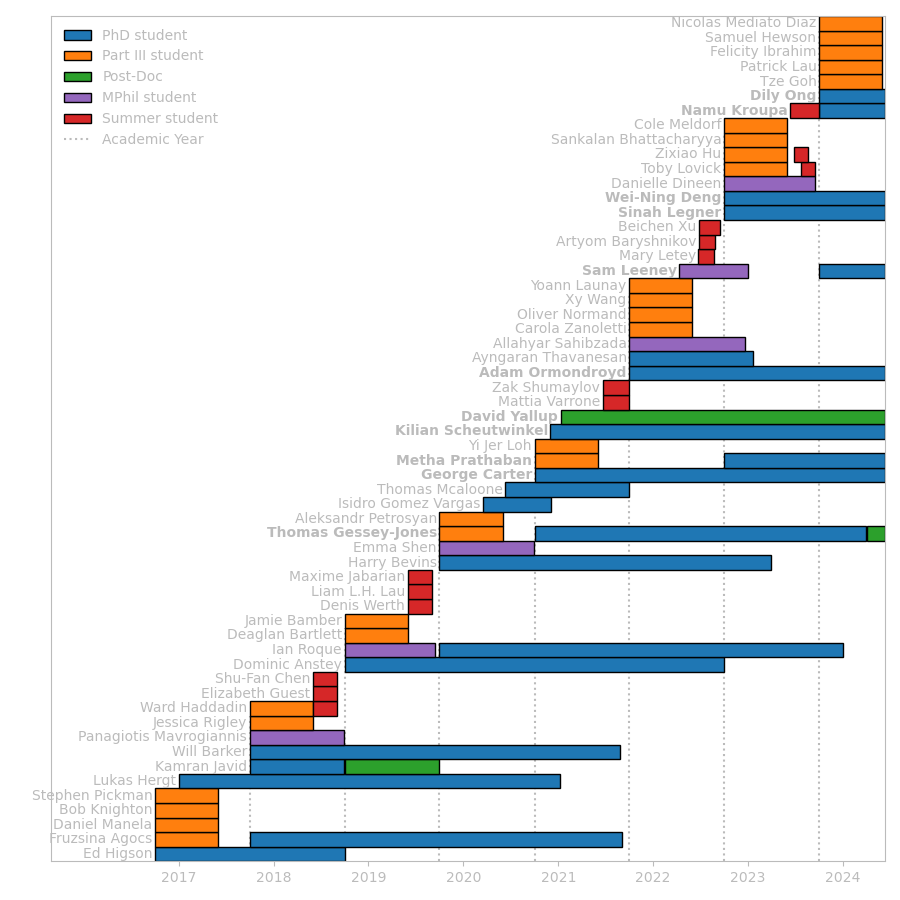
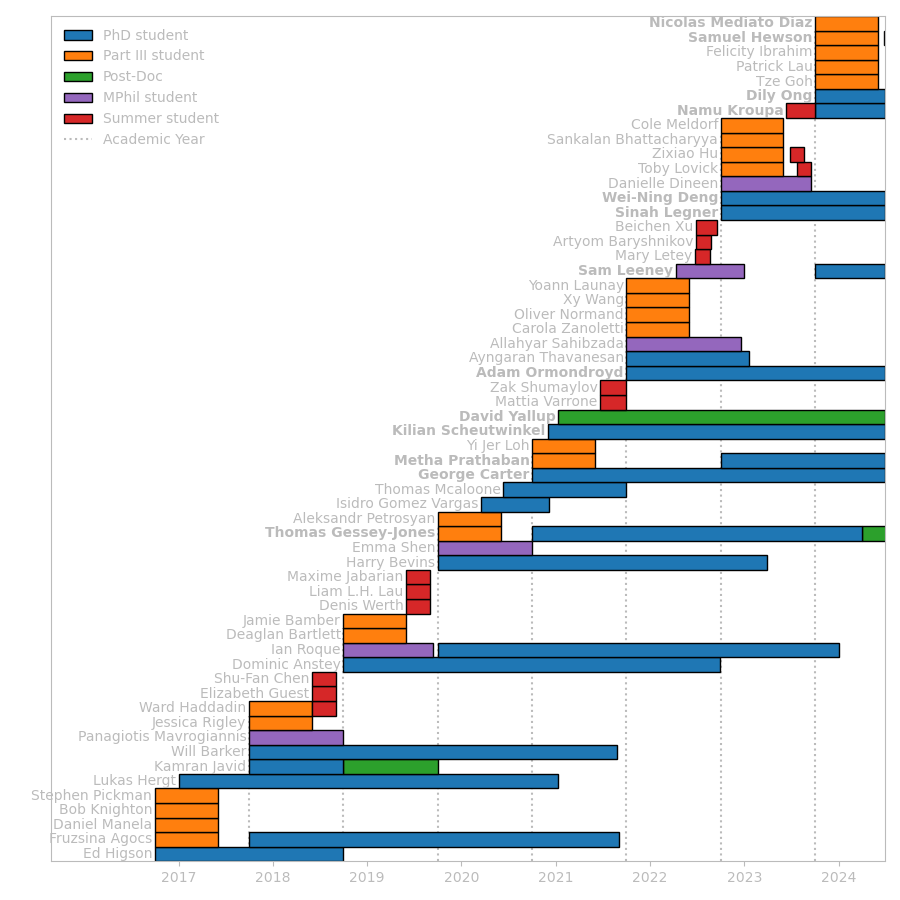
Updated

diff --git a/assets/students/students.html b/assets/students/students.html
@@ -22,33 +22,6 @@
   <h1>Post-Docs</h1>
   <div class="grid">
     <div class="grid-item">
-      <img src="/assets/students/images/thomas_gessey-jones.jpg" />
-    </div>
-    <div class="grid-item">
-      <p>
-        <font size="+2">Thomas Gessey-Jones</font>
-      </p>
-      <p>
-        <ul>
-          <li>Post-Doc from Apr 2024</li>
-          <li>PhD student from Oct 2020 to Mar 2024<ul><li>co-supervised with <a href="https://www.phy.cam.ac.uk/directory/dr-eloy-de-lera-acedo">Eloy de Lera Acedo</a>, <a href="https://www.ast.cam.ac.uk/people/Anastasia.Fialkov">Anastasia Fialkov</a></li></ul></li>
-          <li>Part III student from Oct 2019 to Jun 2020</li>
-          <li>
-            <a href="https://arxiv.org/search/?query=handley%2C+w%3B+Gessey-Jones%2CT&searchtype=author">Shared research papers (9)</a>
-          </li>
-          <li>Links:</li>
-          <ul>
-            <li>
-              <a href="https://www.cavendishradiocosmology.com/">Group webpage</a>
-            </li>
-            <li>
-              <a href="https://arxiv.org/search/?query=T+Gessey-Jones&searchtype=all&abstracts=show&order=-announced_date_first&size=50">arXiv</a>
-            </li>
-          </ul>
-        </ul>
-      </p>
-    </div>
-    <div class="grid-item">
       <img src="/assets/students/images/david_yallup.jpg" />
     </div>
     <div class="grid-item">
@@ -232,6 +205,37 @@
 <div class="wrapper" style="margin-top:30pt">
   <h1>Past Post-Docs</h1>
   <div class="grid">
+    <div class="grid-item">
+      <img src="/assets/students/images/thomas_gessey-jones.jpg" />
+    </div>
+    <div class="grid-item">
+      <p>
+        <font size="+2">Thomas Gessey-Jones</font>
+      </p>
+      <p>
+        <ul>
+          <li>Post-Doc from Apr 2024 to Aug 2024</li>
+          <li>PhD student from Oct 2020 to Mar 2024<ul><li>co-supervised with <a href="https://www.phy.cam.ac.uk/directory/dr-eloy-de-lera-acedo">Eloy de Lera Acedo</a>, <a href="https://www.ast.cam.ac.uk/people/Anastasia.Fialkov">Anastasia Fialkov</a></li></ul></li>
+          <li>Part III student from Oct 2019 to Jun 2020</li>
+          <li>
+            <a href="https://arxiv.org/search/?query=handley%2C+w%3B+Gessey-Jones%2CT&searchtype=author">Shared research papers (9)</a>
+          </li>
+          <li>Links:</li>
+          <ul>
+            <li>
+              <a href="https://www.cavendishradiocosmology.com/">Group webpage</a>
+            </li>
+            <li>
+              <a href="https://arxiv.org/search/?query=T+Gessey-Jones&searchtype=all&abstracts=show&order=-announced_date_first&size=50">arXiv</a>
+            </li>
+          </ul>
+          <li>Subsequent career:</li>
+          <ul>
+            <li>Aug 2024: <a href="https://www.physicx.ai/">PhysicsX</a></li>
+          </ul>
+        </ul>
+      </p>
+    </div>
     <div class="grid-item">
       <img src="/assets/students/images/kamran_javid.jpg" />
     </div>
@@ -431,6 +435,7 @@
           <li>Subsequent career:</li>
           <ul>
             <li>Oct 2021: 3y fellowship CCM New York</li>
+            <li>Oct 2024: Assistant Professor at Boulder, Colorado</li>
           </ul>
         </ul>
       </p>
@@ -457,6 +462,7 @@
           <li>Subsequent career:</li>
           <ul>
             <li>Oct 2021: 3y Junior Research Fellowship (Girton, Cambridge)</li>
+            <li>Oct 2024: 2y Marie Curie fellowship</li>
           </ul>
         </ul>
       </p>
@@ -927,6 +933,7 @@
           <li>Subsequent career:</li>
           <ul>
             <li>Oct 2019: PhD in theoretical cosmology, ETH Zurich</li>
+            <li>Oct 2023: Postdoc at DAMTP (Cambridge)</li>
           </ul>
         </ul>
       </p>
@@ -936,6 +943,19 @@
 <div class="wrapper" style="margin-top:30pt">
   <h1>Past Summer students</h1>
   <div class="grid">
+    <div class="grid-item">
+      <img src="/assets/images/user.png" />
+    </div>
+    <div class="grid-item">
+      <p>
+        <font size="+2">Charlotte Priestley</font>
+      </p>
+      <p>
+        <ul>
+          <li>Summer student from Jul 2024 to Sep 2024</li>
+        </ul>
+      </p>
+    </div>
     <div class="grid-item">
       <img src="/assets/students/images/artyom_baryshnikov.jpg" />
     </div>
@@ -1000,7 +1020,8 @@
           </ul>
           <li>Subsequent career:</li>
           <ul>
-            <li>Oct 2022: Msc in Physics, Perimeter Institute</li>
+            <li>Oct 2022: Msc in Theoretical Physics, Perimeter Institute</li>
+            <li>Oct 2023: PhD in Applied Mathematics, Harvard</li>
           </ul>
         </ul>
       </p>
